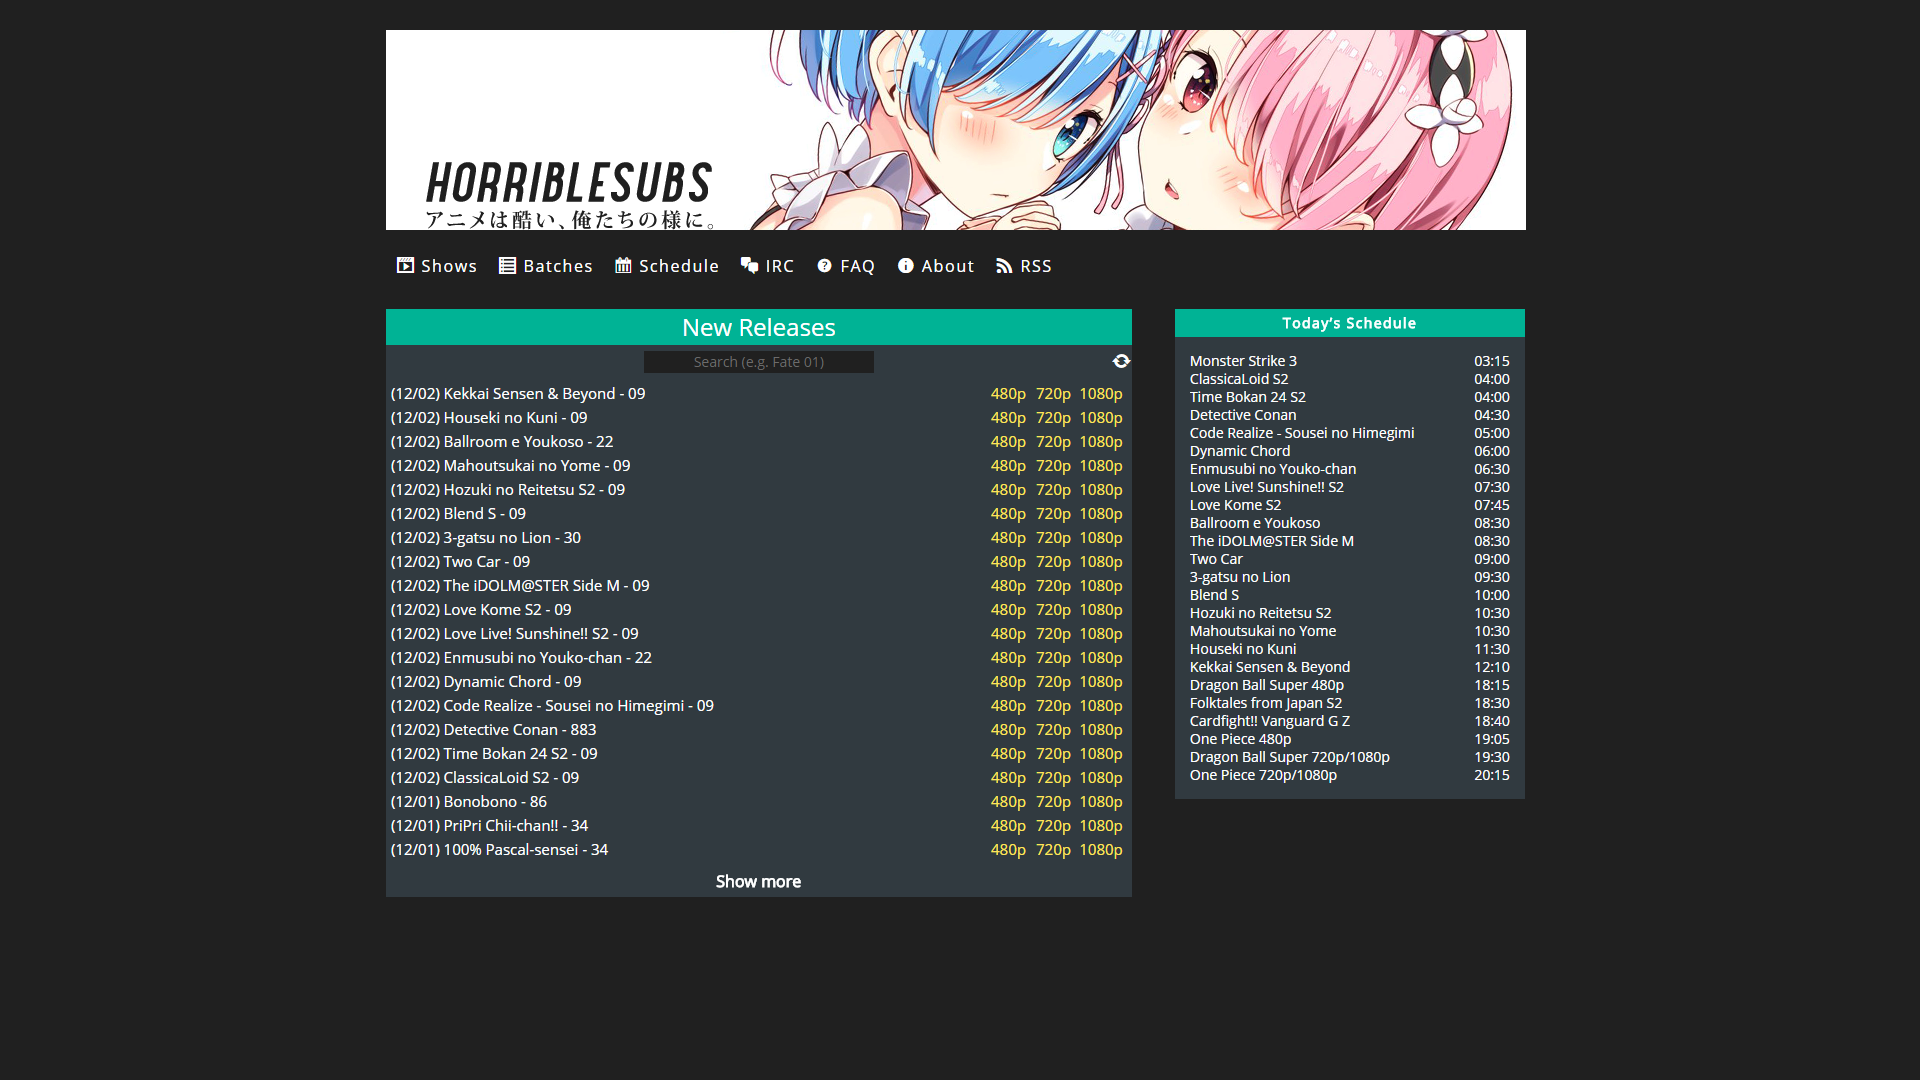
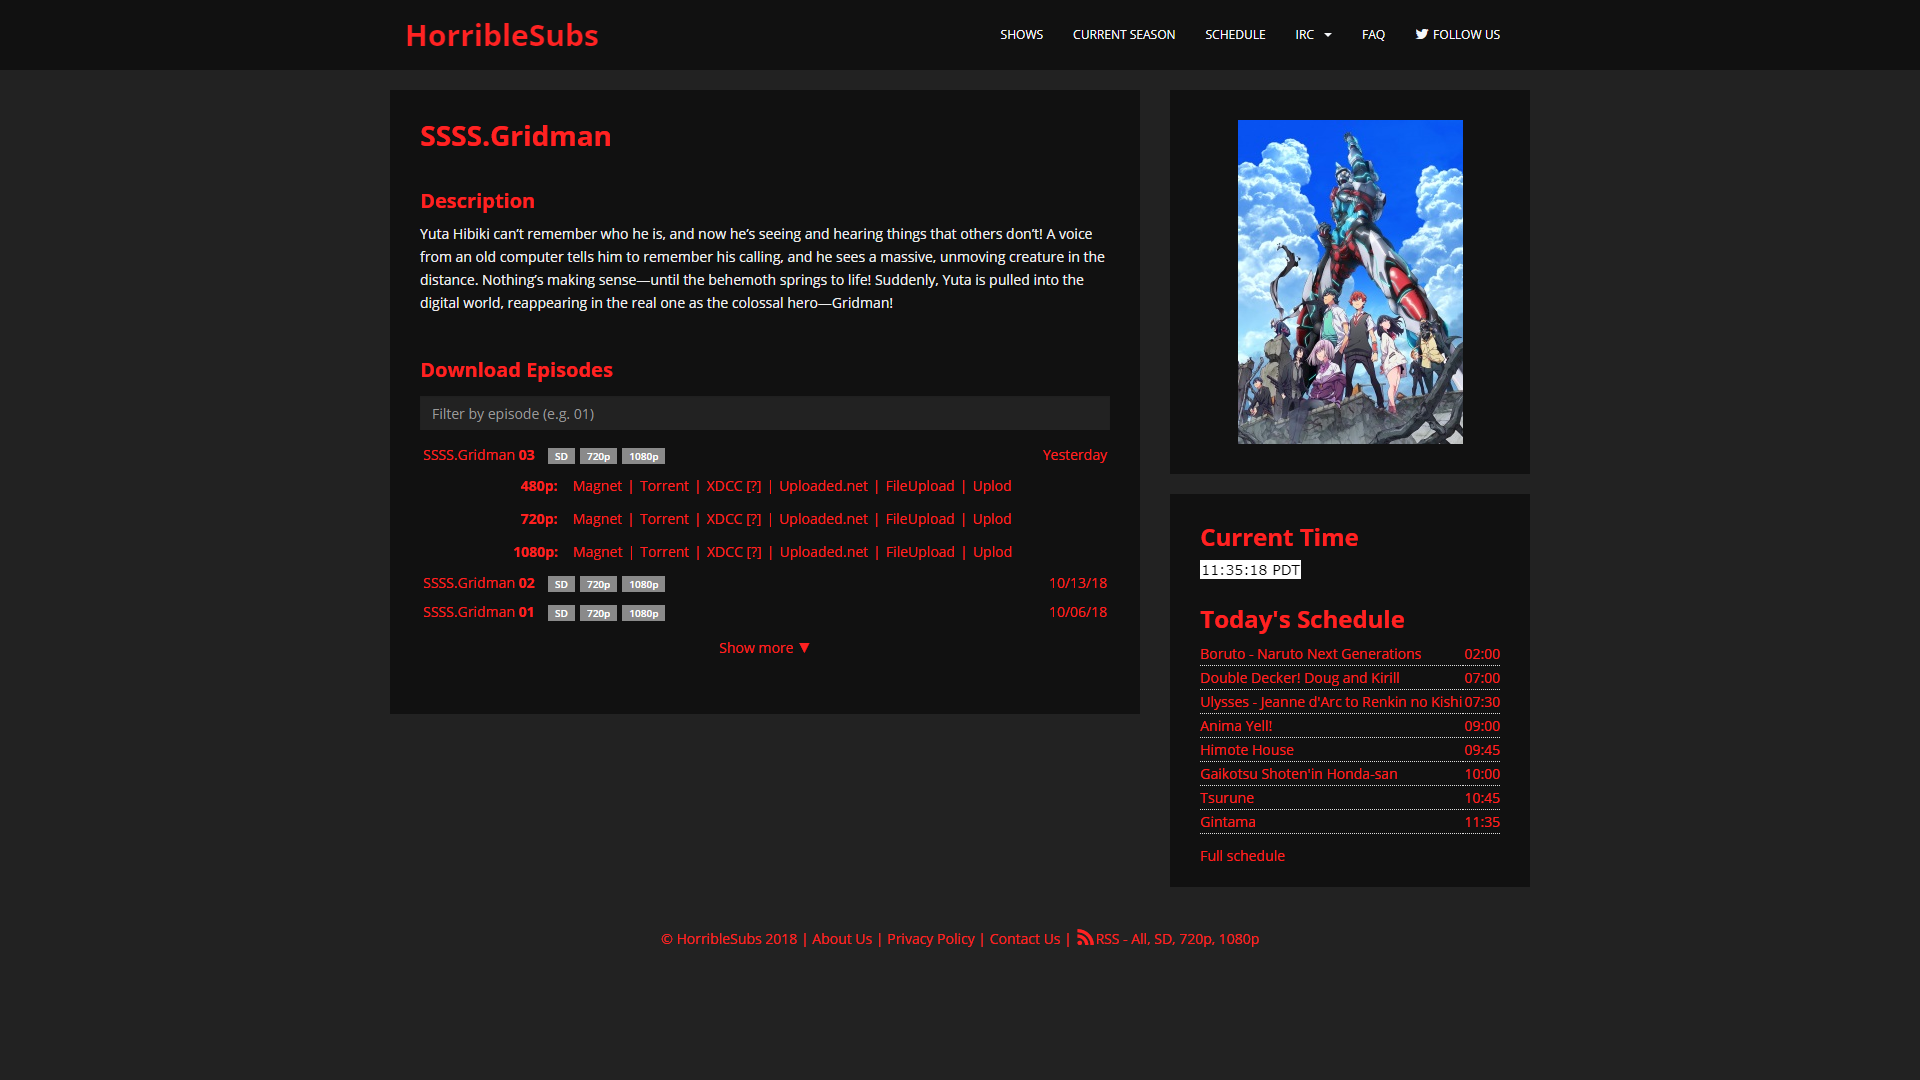
Updated style

diff --git a/horriblesubs/custom_horriblesubs.user.css b/horriblesubs/custom_horriblesubs.user.css
@@ -1,71 +1,87 @@
 /* ==UserStyle==
 @name           Custom horriblesubs
 @namespace      https://github.com/just12/web-styles
-@version        0.1.0
+@version        0.2.0
 @description    A new userstyle
 @author         just12
 ==/UserStyle== */
 
-
-@-moz-document url-prefix("http://horriblesubs.info/") {
-    #menu-item-130418, .msgblk-container.message-blk, #disqus_thread, img#headerimg, #colophon, li#text-24, li#text-8, #text-26, #custom_html-2{display: none;}
-
-a.twelvecol.last{
-    height: 199.55px;
-    margin-bottom: 17px;
-    background-image: url('http://i.imgur.com/CDOegyQ.jpg');
-    background-size: cover;
-    background-position: center;
+@-moz-document url-prefix("https://horriblesubs.info/shows/"), url("https://horriblesubs.info/current-season/") {
+    #post-134721 > div > div.series-desc > p
+    {color: #eee !important}
+    
+    .series-image img {
+    box-shadow: none;
+    }
 }
 
-#main .entry-content h2{border: 0px;text-align: center;margin: 0px 0px 10px 0px;}
-
-#main .entry-content, body{padding: 0px;}
-
-h3.widget-title{margin: 0px;padding: 5px;text-align: center;}
-
-.latest{padding: 0px 5px 0px 5px;}
-
-.morebox a{transition: 0s!important;}
-
-.rls-label a{border: 0px;}
-
-.linkless{opacity: .3;}
-
-#batch-announcement, .series-releases h2:nth-child(1){margin: 0px !important;}
-
-.hs-batches, .hs-shows{padding: 5px;}
-
-/*Colores*/
-
-h3.widget-title, div.entry-content h2{background-color: #1abc9c;}
-
-#post-5 > div > div,
-#custom_html-2 > div,
-#text-16 > div > div,
-.hs-batches,
-.episodecontainer
-{background-color: #374047 !important;}
-
-#post-5 > div > div > div.latest > div.release-links.sword-art-online-alternative---gun-gale-online-05-480p,
-.release-info:hover,
-.release-links:hover,
-.shows-morebox:hover
-{background-color: #2b343b !important;}
-
-td.schedule-widget-show a, td.schedule-time, h3.widget-title, #main .entry-content h2, .morebox a, .rls-label, .dl-label, .rls-label a, .dl-label a, .rls-label a, .dl-link a, .refreshlink a, .shows-clearlink a, .ind-show a, a, div.series-desc, h1.entry-title, #batch-announcement{color: #fff !important;}
-
-#wrapper, .searchbar, html{background-color: #212121;}
-
-.morebox:hover{background-color: #1abc9c;}
-
-.res-link a{color: #FCEB53 !important;}
-.linkless{color: #FCEB53 !important;}
-
-.searchbar,
-.hs-batches
-{color: #ccc !important;}
-
-.res-link a:hover, .rls-label a:hover, .dl-link a:hover
-{background: none;}
+@-moz-document url-prefix("https://horriblesubs.info") {
+    #main > div.latest-sponsor.text-center,
+    #secondary > div:nth-child(1) > div.homepage-sponsor.text-center,
+    #main > div.comment-wrapper,
+    #disqus_thread,
+    #secondary > div:nth-child(2),
+    #post-134721 > div > div.rls-sponsor.text-center
+    {display: none;}
+    
+    .navbar.navbar-default,
+    .post-inner-content,
+    .well,
+    #secondary > div:nth-child(1) > iframe
+    {background-color: #111 !important;}
+    
+    body,
+    .form-control,
+    .table-hover>tbody>tr:hover, .schedule-table>tbody>tr:hover,
+    .latest-releases a:hover, .latest-show-more a:hover,
+    .rls-label:hover
+    {background-color: #222 !important;}
+    
+    .latest-releases .active
+    {background-color: #f22;}
+    
+    .latest-releases .active a:hover
+    {background-color: #f11 !important;}
+    
+    .navbar-default .navbar-nav > .active > a, .navbar-default .navbar-nav > .active > .caret, .navbar-default .navbar-nav > .active > a:hover, .navbar-default .navbar-nav > .active > a:focus, .navbar-default .navbar-nav > li > a:hover, .navbar-default .navbar-nav > li:hover > a, .navbar-default .navbar-nav > li > a:focus, .navbar-default .navbar-nav > .open > a, .navbar-default .navbar-nav > .open > a:hover, .navbar-default .navbar-nav > .open > a:focus,
+    h1, h2, h3, h4, h5, h6, .h1, .h2, .h3, .h4, .h5, .h6,
+    a,
+    body,
+    .rls-info-container a:focus, .show-more a:focus, .rls-label:hover, .entry-title
+    {color: #f22;}
+    
+    .latest-releases .active a
+    {color: #000;}
+    
+    .form-control
+    {color: #eee;}
+    
+    .navbar.navbar-default,
+    .post-inner-content,
+    .well
+    {box-shadow: none;}
+    
+    .well,
+    .form-control
+    {border-radius: 0;}
+    
+    .navbar-brand{background-image: none !important;background-color: #f22;}
+    
+    .latest-releases ul li,
+    .form-control,
+    .rls-info-container,
+    .hs-shows
+    {border: none;}
+    
+    .rls-label
+    {padding: 3px;}
+    
+    input{outline: none !important;}
+    
+    .form-control:focus{
+        border: none;
+        box-shadow: none;
+    }
+    
+    .navbar-brand:hover{color:#eee !important;}
 }
